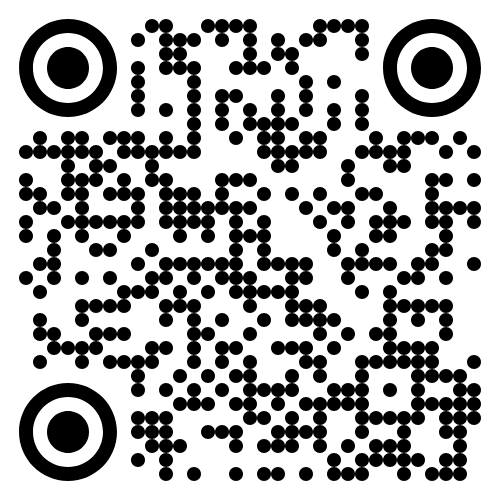
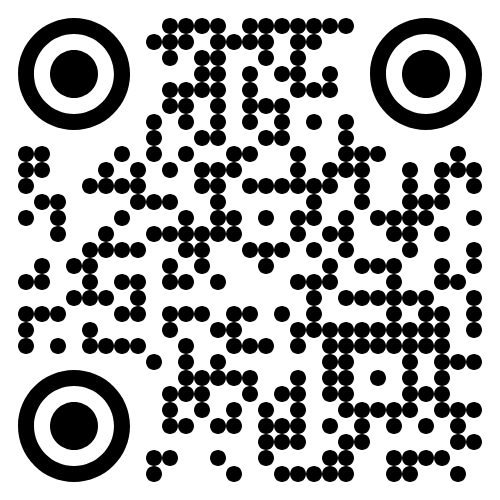
feat: Adjust qr download

diff --git a/pages/download.tsx b/pages/download.tsx
@@ -1,0 +1,30 @@
+'use client';
+
+import { Center, Spinner, Text } from '@chakra-ui/react';
+import { useRouter } from 'next/navigation';
+import { FC, useEffect } from 'react';
+
+const DownloadPage: FC = () => {
+  const router = useRouter();
+
+  useEffect(() => {
+    const userAgent = navigator.userAgent || navigator.vendor;
+
+    if (/android/i.test(userAgent)) {
+      window.location.href = 'https://play.google.com/store/apps/details?id=com.qux.quxpay.android&hl=en-US';
+    } else if (/iPhone|iPad|iPod/i.test(userAgent)) {
+      window.location.href = 'https://apps.apple.com/us/app/quxpay/id6499033621';
+    } else {
+      router.replace('https://blog.quxpay.com/downloads/');
+    }
+  }, [router]);
+
+  return (
+    <Center h="100vh" flexDirection="column">
+      <Spinner size="xl" mb={4} />
+      <Text fontSize="lg">Redirecting...</Text>
+    </Center>
+  );
+};
+
+export default DownloadPage;
